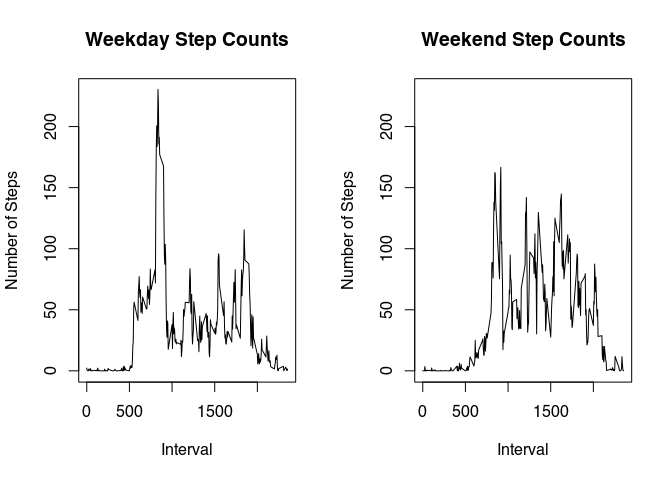
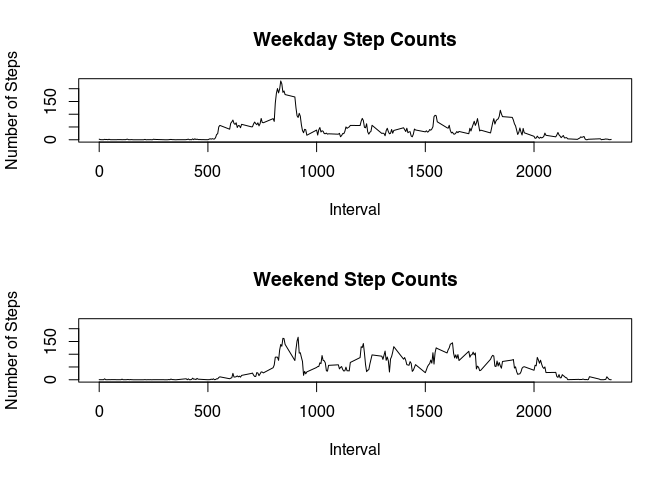
redo panel plot

diff --git a/PA1_template.html b/PA1_template.html
@@ -446,12 +446,12 @@ summary(dailyTotNew)</code></pre>
 actM$dayOfWeek &lt;- sapply(lapply(actM$date, as.Date), weekdays)
 actM$isWeekday &lt;- factor(actM$dayOfWeek %in% c(&quot;Saturday&quot;, &quot;Sunday&quot;), labels = c(&quot;weekday&quot;, &quot;weekend&quot;))
 
-par(mfrow=c(1,2))
+par(mfrow=c(2,1))
 plot(intervals, tapply(subset(actM, isWeekday==&quot;weekday&quot;)$steps, subset(actM, isWeekday==&quot;weekday&quot;)$interval, mean, na.rm=TRUE), &quot;l&quot;, main=&quot;Weekday Step Counts&quot;, 
   xlab=&quot;Interval&quot;, ylab=&quot;Number of Steps&quot;, ylim=c(0, 230))
 plot(intervals, tapply(subset(actM, isWeekday==&quot;weekend&quot;)$steps, subset(actM, isWeekday==&quot;weekend&quot;)$interval, mean, na.rm=TRUE), &quot;l&quot;, main=&quot;Weekend Step Counts&quot;, 
   xlab=&quot;Interval&quot;, ylab=&quot;Number of Steps&quot;, ylim=c(0, 230))</code></pre>
[2 lines of base64/hex data omitted]
 </div>
 
 

diff --git a/PA1_template.md b/PA1_template.md
@@ -126,7 +126,7 @@ The mean and median number of steps daily are both now 10766 steps.
 actM$dayOfWeek <- sapply(lapply(actM$date, as.Date), weekdays)
 actM$isWeekday <- factor(actM$dayOfWeek %in% c("Saturday", "Sunday"), labels = c("weekday", "weekend"))
 
-par(mfrow=c(1,2))
+par(mfrow=c(2,1))
 plot(intervals, tapply(subset(actM, isWeekday=="weekday")$steps, subset(actM, isWeekday=="weekday")$interval, mean, na.rm=TRUE), "l", main="Weekday Step Counts", 
   xlab="Interval", ylab="Number of Steps", ylim=c(0, 230))
 plot(intervals, tapply(subset(actM, isWeekday=="weekend")$steps, subset(actM, isWeekday=="weekend")$interval, mean, na.rm=TRUE), "l", main="Weekend Step Counts", 
